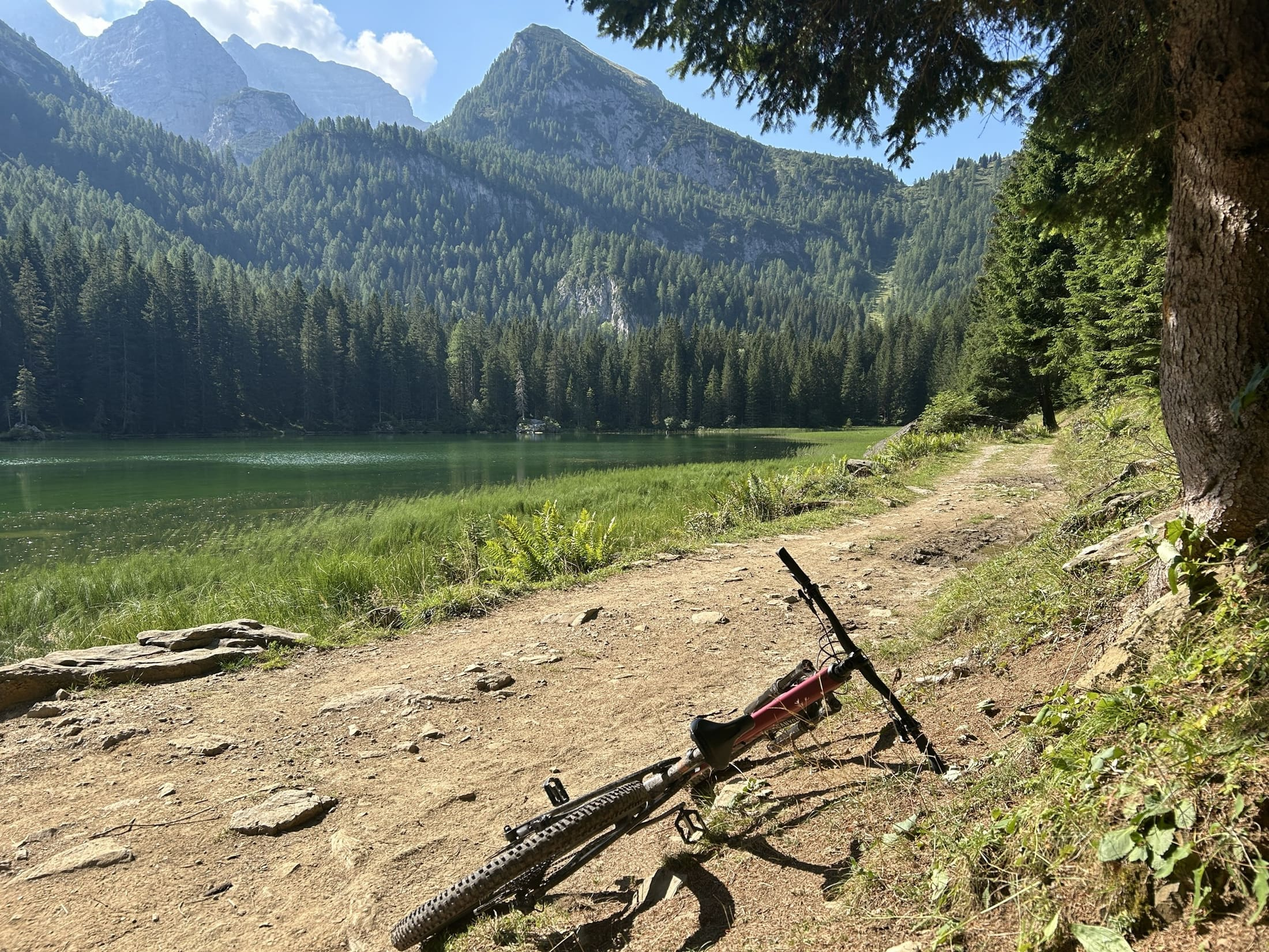
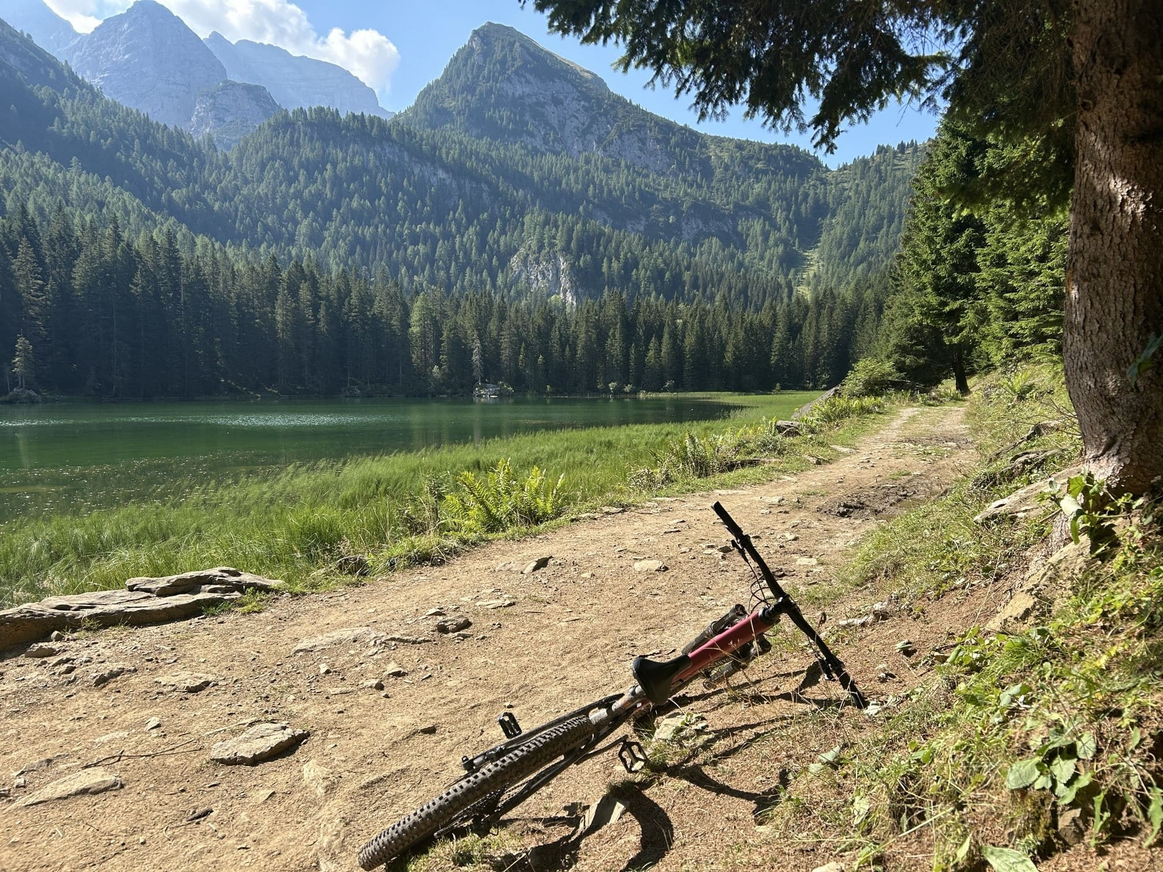
MTB-Alpencross: bearbeitete iPhone-Fassungen und neue Fotos (Tag 6–8)
- Ersetzt: IMG_4466, 4478, 4487, 4513, 4597 und Titelbild; IMG_4532 durch 4536
- Neu: Aperitif in Pezzo (Tag 6), Brenta Bräu, Feierabendbier und Abend am Rifugio Vallesinella (Tag 7),
  Schiebestück, erster Blick auf den Gardasee, Eis in Riva, Abendessen oberhalb von Torbole (Tag 8)
- Abschiedsfoto vom Ristorante Da Giusy noch nicht drin (Einverständnis der Wirtin offen)

Claude-Session: https://claude.ai/code/session_01EmeZGP2oLm935Y2aYrzm7s

diff --git a/public/mtb-alpencross/index.html b/public/mtb-alpencross/index.html
@@ -365,7 +365,7 @@ figure.foto { margin: 0; }
 
 <div class="story tagstory">
   <div class="story-media lightbox-container">
-    <img class="story-img quer active" data-unit="t6-0" src="/bilder/mtb-alpencross/img-4399.jpg" alt="See unterhalb des Passo di Gavia" loading="lazy"><img class="story-img quer" data-unit="t6-1" src="/bilder/mtb-alpencross/img-4403.jpg" alt="Trail hinunter Richtung Pezzo" loading="lazy"><img class="story-img hoch" data-unit="t6-2" src="/bilder/mtb-alpencross/img-4404.jpg" alt="Trail hinunter Richtung Pezzo" loading="lazy"><img class="story-img quer" data-unit="t6-3" src="/bilder/mtb-alpencross/img-4406.jpg" alt="Alm auf dem Weg nach Pezzo" loading="lazy"><img class="story-img hoch" data-unit="t6-4" src="/bilder/mtb-alpencross/geteilt-3f14a706.jpg" alt="Trail hinunter Richtung Pezzo" loading="lazy">
+    <img class="story-img quer active" data-unit="t6-0" src="/bilder/mtb-alpencross/img-4399.jpg" alt="See unterhalb des Passo di Gavia" loading="lazy"><img class="story-img quer" data-unit="t6-1" src="/bilder/mtb-alpencross/img-4403.jpg" alt="Trail hinunter Richtung Pezzo" loading="lazy"><img class="story-img hoch" data-unit="t6-2" src="/bilder/mtb-alpencross/img-4404.jpg" alt="Trail hinunter Richtung Pezzo" loading="lazy"><img class="story-img quer" data-unit="t6-3" src="/bilder/mtb-alpencross/img-4406.jpg" alt="Alm auf dem Weg nach Pezzo" loading="lazy"><img class="story-img hoch" data-unit="t6-4" src="/bilder/mtb-alpencross/geteilt-3f14a706.jpg" alt="Trail hinunter Richtung Pezzo" loading="lazy"><img class="story-img hoch" data-unit="t6-5" src="/bilder/mtb-alpencross/geteilt-07575dc2.jpg" alt="Aperitif am Abend in Pezzo" loading="lazy">
     <div class="story-caption">See unterhalb des Passo di Gavia</div>
   </div>
   <div class="story-text">
@@ -374,12 +374,13 @@ figure.foto { margin: 0; }
     <section class="story-section pic hochbild" data-unit="t6-2" data-caption="Trail hinunter Richtung Pezzo" data-unit-mobil="t6-1"><figure class="vollbild"><img class="lightbox-img" src="/bilder/mtb-alpencross/img-4404.jpg" alt="Trail hinunter Richtung Pezzo" loading="lazy"><figcaption class="bu-drauf">Trail hinunter Richtung Pezzo</figcaption></figure><div class="vollbild-luft"></div></section>
     <section class="story-section pic" data-unit="t6-3" data-caption="Alm auf dem Weg nach Pezzo"></section>
     <section class="story-section pic hochbild" data-unit="t6-4" data-caption="Trail hinunter Richtung Pezzo" data-unit-mobil="t6-3"><figure class="vollbild"><img class="lightbox-img" src="/bilder/mtb-alpencross/geteilt-3f14a706.jpg" alt="Trail hinunter Richtung Pezzo" loading="lazy"><figcaption class="bu-drauf">Trail hinunter Richtung Pezzo</figcaption></figure><div class="vollbild-luft"></div></section>
+    <section class="story-section pic hochbild" data-unit="t6-5" data-caption="Aperitif am Abend in Pezzo" data-unit-mobil="t6-3"><figure class="vollbild"><img class="lightbox-img" src="/bilder/mtb-alpencross/geteilt-07575dc2.jpg" alt="Aperitif am Abend in Pezzo" loading="lazy"><figcaption class="bu-drauf">Aperitif am Abend in Pezzo</figcaption></figure><div class="vollbild-luft"></div></section>
   </div>
 </div>
 
 <div class="story tagstory">
   <div class="story-media lightbox-container">
-    <img class="story-img quer active" data-unit="t7-0" src="/bilder/mtb-alpencross/img-4425.jpg" alt="Rückblick ins Tal oberhalb von Pezzo" loading="lazy"><img class="story-img quer" data-unit="t7-1" src="/bilder/mtb-alpencross/img-4431.jpg" alt="Steinmänner am Montozzo" loading="lazy"><img class="story-img quer" data-unit="t7-2" src="/bilder/mtb-alpencross/img-4432.jpg" alt="Abfahrt mit Blick auf den Stausee" loading="lazy"><img class="story-img quer" data-unit="t7-3" src="/bilder/mtb-alpencross/img-4435.jpg" alt="Trail hinunter zum Stausee" loading="lazy"><img class="story-img quer" data-unit="t7-4" src="/bilder/mtb-alpencross/img-4442.jpg" alt="Erster Blick auf die Brenta" loading="lazy"><img class="story-img quer" data-unit="t7-5" src="/bilder/mtb-alpencross/img-4443.jpg" alt="Hinweis auf Braunbären" loading="lazy"><img class="story-img quer" data-unit="t7-6" src="/bilder/mtb-alpencross/img-4466.jpg" alt="Abend am Rifugio Vallesinella" loading="lazy">
+    <img class="story-img quer active" data-unit="t7-0" src="/bilder/mtb-alpencross/img-4425.jpg" alt="Rückblick ins Tal oberhalb von Pezzo" loading="lazy"><img class="story-img quer" data-unit="t7-1" src="/bilder/mtb-alpencross/img-4431.jpg" alt="Steinmänner am Montozzo" loading="lazy"><img class="story-img quer" data-unit="t7-2" src="/bilder/mtb-alpencross/img-4432.jpg" alt="Abfahrt mit Blick auf den Stausee" loading="lazy"><img class="story-img quer" data-unit="t7-3" src="/bilder/mtb-alpencross/img-4435.jpg" alt="Trail hinunter zum Stausee" loading="lazy"><img class="story-img quer" data-unit="t7-4" src="/bilder/mtb-alpencross/img-4442.jpg" alt="Erster Blick auf die Brenta" loading="lazy"><img class="story-img quer" data-unit="t7-5" src="/bilder/mtb-alpencross/img-4443.jpg" alt="Hinweis auf Braunbären" loading="lazy"><img class="story-img quer" data-unit="t7-6" src="/bilder/mtb-alpencross/img-4466.jpg" alt="Abend am Rifugio Vallesinella" loading="lazy"><img class="story-img quer" data-unit="t7-7" src="/bilder/mtb-alpencross/img-4467.jpg" alt="Ein Brenta Bräu am Rifugio Vallesinella" loading="lazy"><img class="story-img hoch" data-unit="t7-8" src="/bilder/mtb-alpencross/geteilt-1f369e19.jpg" alt="Feierabendbier am Rifugio Vallesinella" loading="lazy"><img class="story-img quer" data-unit="t7-9" src="/bilder/mtb-alpencross/img-4468.jpg" alt="Abend am Rifugio Vallesinella" loading="lazy">
     <div class="story-caption">Rückblick ins Tal oberhalb von Pezzo</div>
   </div>
   <div class="story-text">
@@ -390,22 +391,29 @@ figure.foto { margin: 0; }
     <section class="story-section pic" data-unit="t7-4" data-caption="Erster Blick auf die Brenta"></section>
     <section class="story-section pic" data-unit="t7-5" data-caption="Hinweis auf Braunbären"></section>
     <section class="story-section pic" data-unit="t7-6" data-caption="Abend am Rifugio Vallesinella"></section>
+    <section class="story-section pic" data-unit="t7-7" data-caption="Ein Brenta Bräu am Rifugio Vallesinella"></section>
+    <section class="story-section pic hochbild" data-unit="t7-8" data-caption="Feierabendbier am Rifugio Vallesinella" data-unit-mobil="t7-7"><figure class="vollbild"><img class="lightbox-img" src="/bilder/mtb-alpencross/geteilt-1f369e19.jpg" alt="Feierabendbier am Rifugio Vallesinella" loading="lazy"><figcaption class="bu-drauf">Feierabendbier am Rifugio Vallesinella</figcaption></figure><div class="vollbild-luft"></div></section>
+    <section class="story-section pic" data-unit="t7-9" data-caption="Abend am Rifugio Vallesinella"></section>
   </div>
 </div>
 
 <div class="story tagstory">
   <div class="story-media lightbox-container">
-    <img class="story-img hoch active" data-unit="t8-0" src="/bilder/mtb-alpencross/img-4477.jpg" alt="Wasserfall bei Vallesinella" loading="lazy"><img class="story-img quer" data-unit="t8-1" src="/bilder/mtb-alpencross/img-4478.jpg" alt="Morgens in den Brenta-Dolomiten" loading="lazy"><img class="story-img quer" data-unit="t8-2" src="/bilder/mtb-alpencross/img-4487.jpg" alt="Pause am Lago di Valagola" loading="lazy"><img class="story-img hoch" data-unit="t8-3" src="/bilder/mtb-alpencross/img-4513.jpg" alt="Lago di Tenno" loading="lazy"><img class="story-img quer" data-unit="t8-4" src="/bilder/mtb-alpencross/img-4524.jpg" alt="Angekommen: am Hafen von Riva del Garda" loading="lazy"><img class="story-img hoch" data-unit="t8-5" src="/bilder/mtb-alpencross/img-4532.jpg" alt="Abend mit Blick auf den Gardasee" loading="lazy"><img class="story-img hoch" data-unit="t8-6" src="/bilder/mtb-alpencross/geteilt-1703fca4.jpg" alt="Angekommen im Gardasee" loading="lazy">
+    <img class="story-img hoch active" data-unit="t8-0" src="/bilder/mtb-alpencross/img-4477.jpg" alt="Wasserfall bei Vallesinella" loading="lazy"><img class="story-img quer" data-unit="t8-1" src="/bilder/mtb-alpencross/img-4478.jpg" alt="Morgens in den Brenta-Dolomiten" loading="lazy"><img class="story-img quer" data-unit="t8-2" src="/bilder/mtb-alpencross/img-4487.jpg" alt="Pause am Lago di Valagola" loading="lazy"><img class="story-img quer" data-unit="t8-3" src="/bilder/mtb-alpencross/img-4497.jpg" alt="Schiebestück kurz vor dem höchsten Punkt der Etappe" loading="lazy"><img class="story-img hoch" data-unit="t8-4" src="/bilder/mtb-alpencross/img-4513.jpg" alt="Lago di Tenno" loading="lazy"><img class="story-img quer" data-unit="t8-5" src="/bilder/mtb-alpencross/img-4517.jpg" alt="Erster Blick auf den Gardasee" loading="lazy"><img class="story-img quer" data-unit="t8-6" src="/bilder/mtb-alpencross/img-4524.jpg" alt="Angekommen: am Hafen von Riva del Garda" loading="lazy"><img class="story-img quer" data-unit="t8-7" src="/bilder/mtb-alpencross/img-4526.jpg" alt="Eis zur Ankunft in Riva del Garda" loading="lazy"><img class="story-img hoch" data-unit="t8-8" src="/bilder/mtb-alpencross/geteilt-1703fca4.jpg" alt="Angekommen im Gardasee" loading="lazy"><img class="story-img hoch" data-unit="t8-9" src="/bilder/mtb-alpencross/img-4536.jpg" alt="Abend mit Blick auf den Gardasee" loading="lazy"><img class="story-img hoch" data-unit="t8-10" src="/bilder/mtb-alpencross/img-4538.jpg" alt="Abendessen oberhalb von Torbole" loading="lazy">
     <div class="story-caption">Wasserfall bei Vallesinella</div>
   </div>
   <div class="story-text">
     <section class="story-section hochbild" id="tag8" data-unit="t8-0" data-caption="Wasserfall bei Vallesinella" data-unit-mobil="t8-1"><figure class="vollbild"><img class="lightbox-img" src="/bilder/mtb-alpencross/img-4477.jpg" alt="Wasserfall bei Vallesinella" loading="lazy"><figcaption class="bu-drauf">Wasserfall bei Vallesinella</figcaption></figure><div class="vollbild-text"><h3>Tag 8: Madonna di Campiglio → Torbole (Gardasee)</h3><p class="etappe-zahlen"><span>↔ 64,2 km</span><span>↑ 1.160 Hm</span><span>↓ 2.606 Hm</span></p></div><div class="vollbild-luft"></div></section>
     <section class="story-section pic" data-unit="t8-1" data-caption="Morgens in den Brenta-Dolomiten"></section>
     <section class="story-section pic" data-unit="t8-2" data-caption="Pause am Lago di Valagola"></section>
-    <section class="story-section hochbild" data-unit="t8-3" data-caption="Lago di Tenno" data-unit-mobil="t8-2"><figure class="vollbild"><img class="lightbox-img" src="/bilder/mtb-alpencross/img-4513.jpg" alt="Lago di Tenno" loading="lazy"><figcaption class="bu-drauf">Lago di Tenno</figcaption></figure><div class="vollbild-text"><p>Auf dem Weg zum Gardasee und am See selbst war das mediterrane Flair deutlich zu spüren.</p></div><div class="vollbild-luft"></div></section>
-    <section class="story-section pic" data-unit="t8-4" data-caption="Angekommen: am Hafen von Riva del Garda"></section>
-    <section class="story-section pic hochbild" data-unit="t8-5" data-caption="Abend mit Blick auf den Gardasee" data-unit-mobil="t8-4"><figure class="vollbild"><img class="lightbox-img" src="/bilder/mtb-alpencross/img-4532.jpg" alt="Abend mit Blick auf den Gardasee" loading="lazy"><figcaption class="bu-drauf">Abend mit Blick auf den Gardasee</figcaption></figure><div class="vollbild-luft"></div></section>
-    <section class="story-section pic hochbild" data-unit="t8-6" data-caption="Angekommen im Gardasee" data-unit-mobil="t8-4"><figure class="vollbild"><img class="lightbox-img" src="/bilder/mtb-alpencross/geteilt-1703fca4.jpg" alt="Angekommen im Gardasee" loading="lazy"><figcaption class="bu-drauf">Angekommen im Gardasee</figcaption></figure><div class="vollbild-luft"></div></section>
+    <section class="story-section pic" data-unit="t8-3" data-caption="Schiebestück kurz vor dem höchsten Punkt der Etappe"></section>
+    <section class="story-section hochbild" data-unit="t8-4" data-caption="Lago di Tenno" data-unit-mobil="t8-3"><figure class="vollbild"><img class="lightbox-img" src="/bilder/mtb-alpencross/img-4513.jpg" alt="Lago di Tenno" loading="lazy"><figcaption class="bu-drauf">Lago di Tenno</figcaption></figure><div class="vollbild-text"><p>Auf dem Weg zum Gardasee und am See selbst war das mediterrane Flair deutlich zu spüren.</p></div><div class="vollbild-luft"></div></section>
+    <section class="story-section pic" data-unit="t8-5" data-caption="Erster Blick auf den Gardasee"></section>
+    <section class="story-section pic" data-unit="t8-6" data-caption="Angekommen: am Hafen von Riva del Garda"></section>
+    <section class="story-section pic" data-unit="t8-7" data-caption="Eis zur Ankunft in Riva del Garda"></section>
+    <section class="story-section pic hochbild" data-unit="t8-8" data-caption="Angekommen im Gardasee" data-unit-mobil="t8-7"><figure class="vollbild"><img class="lightbox-img" src="/bilder/mtb-alpencross/geteilt-1703fca4.jpg" alt="Angekommen im Gardasee" loading="lazy"><figcaption class="bu-drauf">Angekommen im Gardasee</figcaption></figure><div class="vollbild-luft"></div></section>
+    <section class="story-section pic hochbild" data-unit="t8-9" data-caption="Abend mit Blick auf den Gardasee" data-unit-mobil="t8-7"><figure class="vollbild"><img class="lightbox-img" src="/bilder/mtb-alpencross/img-4536.jpg" alt="Abend mit Blick auf den Gardasee" loading="lazy"><figcaption class="bu-drauf">Abend mit Blick auf den Gardasee</figcaption></figure><div class="vollbild-luft"></div></section>
+    <section class="story-section pic hochbild" data-unit="t8-10" data-caption="Abendessen oberhalb von Torbole" data-unit-mobil="t8-7"><figure class="vollbild"><img class="lightbox-img" src="/bilder/mtb-alpencross/img-4538.jpg" alt="Abendessen oberhalb von Torbole" loading="lazy"><figcaption class="bu-drauf">Abendessen oberhalb von Torbole</figcaption></figure><div class="vollbild-luft"></div></section>
   </div>
 </div>
 

diff --git a/scripts/alpencross-bauen.py b/scripts/alpencross-bauen.py
@@ -109,6 +109,8 @@ OFFEN = [
 
 # --------------------------------------------------------------------------- Fotos
 # Auswahl und Bildunterschriften von Jannis (28.11.2026), je Tag in Aufnahme-Reihenfolge.
+# Zweite Auswahl (28.11. abends): bearbeitete iPhone-Fassungen. Foto 44fb5825 (Abschied vom Ristorante Da Giusy)
+# bewusst noch nicht drin: Einverständnis der Wirtin ungeklärt.
 # Dateien: bilder-original/mtb-alpencross/ (nicht im Repo) → npm run bilder → public/bilder/mtb-alpencross/
 # (verkleinert, ohne EXIF/GPS). „geteilt-…“ = von Kai geteilte Fotos. Kai ist mit erkennbaren Fotos einverstanden.
 # Eintrag: (Datei, Bildunterschrift, Absatz) – Absatz = Index in TEXTE[tag], der neben diesem Foto steht.
@@ -145,21 +147,29 @@ FOTOS = {
         ('img-4403', 'Trail hinunter Richtung Pezzo', None),
         ('img-4404', 'Trail hinunter Richtung Pezzo', None),
         ('img-4406', 'Alm auf dem Weg nach Pezzo', None),
-        ('geteilt-3f14a706', 'Trail hinunter Richtung Pezzo', None)],
+        ('geteilt-3f14a706', 'Trail hinunter Richtung Pezzo', None),
+        ('geteilt-07575dc2', 'Aperitif am Abend in Pezzo', None)],
     7: [('img-4425', 'Rückblick ins Tal oberhalb von Pezzo', None),
         ('img-4431', 'Steinmänner am Montozzo', None),
         ('img-4432', 'Abfahrt mit Blick auf den Stausee', None),
         ('img-4435', 'Trail hinunter zum Stausee', None),
         ('img-4442', 'Erster Blick auf die Brenta', None),
         ('img-4443', 'Hinweis auf Braunbären', None),
-        ('img-4466', 'Abend am Rifugio Vallesinella', None)],
+        ('img-4466', 'Abend am Rifugio Vallesinella', None),
+        ('img-4467', 'Ein Brenta Bräu am Rifugio Vallesinella', None),
+        ('geteilt-1f369e19', 'Feierabendbier am Rifugio Vallesinella', None),
+        ('img-4468', 'Abend am Rifugio Vallesinella', None)],
     8: [('img-4477', 'Wasserfall bei Vallesinella', None),
         ('img-4478', 'Morgens in den Brenta-Dolomiten', None),
         ('img-4487', 'Pause am Lago di Valagola', None),
+        ('img-4497', 'Schiebestück kurz vor dem höchsten Punkt der Etappe', None),
         ('img-4513', 'Lago di Tenno', 0),
+        ('img-4517', 'Erster Blick auf den Gardasee', None),
         ('img-4524', 'Angekommen: am Hafen von Riva del Garda', None),
-        ('img-4532', 'Abend mit Blick auf den Gardasee', None),
-        ('geteilt-1703fca4', 'Angekommen im Gardasee', None)],
+        ('img-4526', 'Eis zur Ankunft in Riva del Garda', None),
+        ('geteilt-1703fca4', 'Angekommen im Gardasee', None),
+        ('img-4536', 'Abend mit Blick auf den Gardasee', None),
+        ('img-4538', 'Abendessen oberhalb von Torbole', None)],
     9: [('img-4597', 'Pizza am Ufer in Torbole', 0)],
 }
 # Unterkunft auf der Karte → Foto (nur wo eins von der Unterkunft dabei ist)
